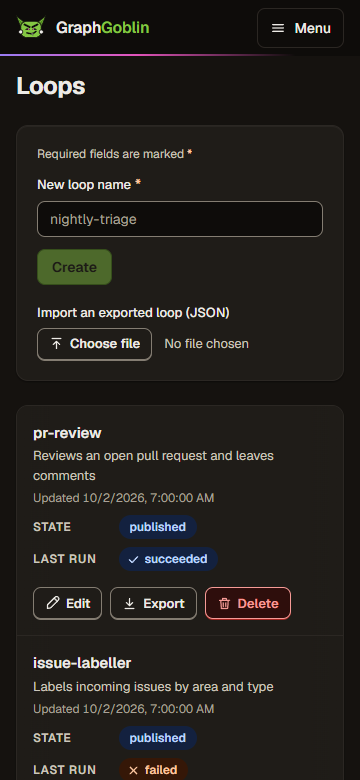
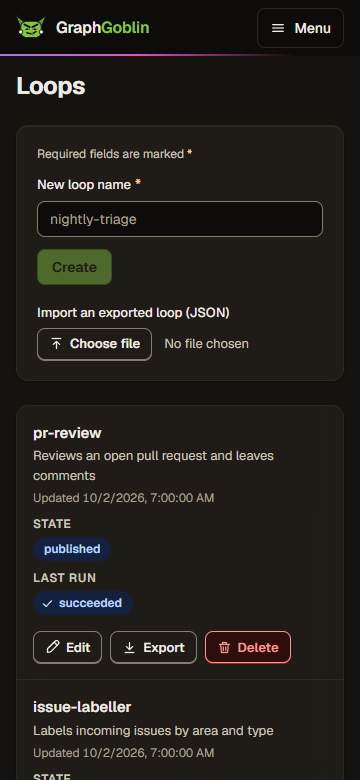
fix(web): focus after undo or redo follows surviving rows and never opens a collapsed one; stacked values take the full row width below 640 px
When the focused row no longer exists after a history step, focus moves to a shown
header, the collection's Add button, or its fieldset instead of reusing the stale index
path and revealing another row; a row's header toggle and Remove button follow the row's
identity like its fields. The shared stacked-table styles give values the full width below
640 px, so a loop's long state badge reads whole at 360 px. Regression tests cover both
collapsed-row scenarios, shifted headers, an emptied collection, and the badge in both
themes; docs/09 and the sweep's README and two Loops screenshots are updated.

Changed region(s): [[0.0917, 0.6462, 0.825, 1.0]]

diff --git a/apps/web/src/editor/NodeEditorDialog.test.tsx b/apps/web/src/editor/NodeEditorDialog.test.tsx
@@ -147,4 +147,122 @@ describe('NodeEditorDialog disclosures across undo and redo', () => {
     expect(item(1)).toHaveAttribute('aria-expanded', 'false');
     expect(item(2)).toHaveAttribute('aria-expanded', 'true');
   });
+
+  it('redoing a removal from the removed row keeps its neighbour collapsed', async () => {
+    const user = userEvent.setup();
+    const dialog = await openDialog(
+      {
+        id: 'mut',
+        kind: 'mutate',
+        label: 'Mut',
+        config: {
+          operations: [
+            { op: 'delete', path: '/vars/a' },
+            { op: 'delete', path: '/vars/b' },
+          ],
+        },
+      },
+      'Edit mutate mut',
+    );
+    const item = (n: number) =>
+      within(dialog).getByRole('button', { name: new RegExp(`^Operations ${n}\\b`) });
+    await user.click(item(1));
+    await user.click(within(dialog).getByRole('button', { name: 'Remove operations 1' }));
+    await user.keyboard(UNDO);
+    const op = within(within(dialog).getByRole('group', { name: 'Operations 1' })).getByLabelText(
+      'Op',
+    );
+    act(() => op.focus());
+    await user.keyboard(REDO);
+    expect(item(1)).toHaveAttribute('aria-expanded', 'false');
+    expect(item(1)).toHaveFocus();
+    await user.keyboard(UNDO);
+    expect(item(1)).toHaveAttribute('aria-expanded', 'true');
+    expect(item(2)).toHaveAttribute('aria-expanded', 'false');
+    expect(item(2)).toHaveFocus();
+  });
+
+  it('undoing an add from its picker focuses a shown header without opening that row', async () => {
+    const user = userEvent.setup();
+    const dialog = await openDialog(
+      {
+        id: 'mut',
+        kind: 'mutate',
+        label: 'Mut',
+        config: { operations: [{ op: 'delete', path: '/vars/a' }] },
+      },
+      'Edit mutate mut',
+    );
+    const item = (n: number) =>
+      within(dialog).getByRole('button', { name: new RegExp(`^Operations ${n}\\b`) });
+    await user.click(within(dialog).getByRole('button', { name: 'Add operations' }));
+    const op = within(within(dialog).getByRole('group', { name: 'Operations 2' })).getByLabelText(
+      'Op',
+    );
+    await waitFor(() => expect(op).toHaveFocus());
+    await user.keyboard(UNDO);
+    expect(item(1)).toHaveAttribute('aria-expanded', 'false');
+    expect(item(1)).toHaveFocus();
+    await user.keyboard(REDO);
+    expect(item(1)).toHaveAttribute('aria-expanded', 'false');
+    expect(item(2)).toHaveAttribute('aria-expanded', 'true');
+  });
+
+  it.each(['toggle', 'remove'] as const)(
+    'follows the same row when undo and redo move its header %s',
+    async (headerControl) => {
+      const user = userEvent.setup();
+      const dialog = await openDialog(
+        {
+          id: 'mut',
+          kind: 'mutate',
+          label: 'Mut',
+          // Identical rows must still have separate disclosure and focus identities.
+          config: {
+            operations: Array.from({ length: 2 }, () => ({ op: 'delete', path: '/vars/a' })),
+          },
+        },
+        'Edit mutate mut',
+      );
+      const item = (n: number) =>
+        within(dialog).getByRole('button', { name: new RegExp(`^Operations ${n}\\b`) });
+      const header = (n: number) =>
+        headerControl === 'toggle'
+          ? item(n)
+          : within(dialog).getByRole('button', { name: `Remove operations ${n}` });
+      await user.click(within(dialog).getByRole('button', { name: 'Remove operations 1' }));
+      act(() => header(1).focus());
+      await user.keyboard(UNDO);
+      expect(header(2)).toHaveFocus();
+      expect(item(1)).toHaveAttribute('aria-expanded', 'false');
+      expect(item(2)).toHaveAttribute('aria-expanded', 'false');
+      await user.keyboard(REDO);
+      expect(header(1)).toHaveFocus();
+      expect(item(1)).toHaveAttribute('aria-expanded', 'false');
+    },
+  );
+
+  it('undoing the only added row returns focus to the collection Add button', async () => {
+    const user = userEvent.setup();
+    const dialog = await openDialog(
+      {
+        id: 'mut',
+        kind: 'mutate',
+        label: 'Mut',
+        config: { operations: [{ op: 'delete', path: '/vars/a' }] },
+      },
+      'Edit mutate mut',
+    );
+    const add = () => within(dialog).getByRole('button', { name: 'Add operations' });
+    await user.click(within(dialog).getByRole('button', { name: 'Remove operations 1' }));
+    await user.click(add());
+    await waitFor(() =>
+      expect(
+        within(within(dialog).getByRole('group', { name: 'Operations 1' })).getByLabelText('Op'),
+      ).toHaveFocus(),
+    );
+    await user.keyboard(UNDO);
+    expect(within(dialog).queryByRole('button', { name: /^Operations 1\b/ })).toBeNull();
+    expect(add()).toHaveFocus();
+  });
 });

diff --git a/apps/web/src/editor/useUndoShortcuts.ts b/apps/web/src/editor/useUndoShortcuts.ts
@@ -127,6 +127,27 @@ function findAgain(scope: Element, where: Whereabouts, byPlace: boolean): HTMLEl
   return same[Math.min(where.nth, same.length - 1)] ?? (byPlace ? all[where.place] : undefined);
 }
 
+/** A vanished row yields to a shown neighbour's header, else its collection's Add or fieldset. */
+function focusCollection(root: Element, path: string | undefined, index: number): boolean {
+  const collection = [...root.querySelectorAll<HTMLElement>('[data-field]')].find(
+    (el) => el.getAttribute('data-field') === path,
+  );
+  if (!collection || collection.closest('[hidden], [inert]')) return false;
+  const rows = [...collection.querySelectorAll('[data-row-id]')].filter(
+    (el) => el.parentElement?.closest('[data-field]') === collection,
+  );
+  const nearest = rows[Math.min(index, rows.length - 1)];
+  const toggle = nearest
+    ? focusableIn(nearest).find((el) => el.matches('button[aria-expanded]'))
+    : undefined;
+  const add = focusableIn(collection).find(
+    (el) =>
+      el.matches('button') && el.closest('[data-row-id]') === collection.closest('[data-row-id]'),
+  );
+  (toggle ?? add ?? collection).focus();
+  return document.activeElement !== document.body;
+}
+
 /**
  * Undo or redo one step, keeping keyboard focus where the user was. The forms that keep their own
  * state remount with the restored values, so a control focused inside one (a checkbox, a select,
@@ -144,6 +165,10 @@ export function runHistory(direction: HistoryDirection): void {
   const row = control?.closest('[data-row-id]');
   const rowId = row?.getAttribute('data-row-id');
   const rowPath = row?.getAttribute('data-row-path');
+  const collection = row?.parentElement?.closest('[data-field]');
+  const collectionPath = collection?.getAttribute('data-field');
+  const rowIndex = Number(row?.getAttribute('data-collection-row') ?? 0);
+  const inRow = row && control ? whereabouts(control, row) : undefined;
   const inField = field && control ? whereabouts(control, field) : undefined;
   // The innermost element around the control that survives the remount is only known afterwards.
   const around: { element: Element; where: Whereabouts }[] = [];
@@ -158,15 +183,33 @@ export function runHistory(direction: HistoryDirection): void {
   if (document.activeElement && document.activeElement !== document.body) return;
   const kept = around.find(({ element }) => element.isConnected);
   const anchor = kept?.element;
+  const restoredRow =
+    rowId === undefined || rowId === null
+      ? undefined
+      : [...(anchor?.querySelectorAll('[data-row-id]') ?? [])].find(
+          (el) => el.getAttribute('data-row-id') === rowId,
+        );
+  if (rowId !== undefined && rowId !== null && !restoredRow) {
+    // The old index can now name another row. Never reveal it or walk up that stale field path.
+    if (anchor && focusCollection(anchor, collectionPath ?? undefined, rowIndex)) return;
+    const fallback =
+      (anchor ? namingHeading(anchor) : null) ??
+      canvasFocusTarget(useEditorStore.getState().selectedNodeId);
+    fallback?.focus();
+    return;
+  }
+  if (restoredRow && inRow && field && !row?.contains(field)) {
+    // Header toggles and Remove belong to the collection field. Their names include a changing
+    // row number, so match within the surviving row before using their row-local position.
+    const target = findAgain(restoredRow, inRow, true);
+    if (target) {
+      target.focus();
+      return;
+    }
+  }
   if (anchor && path !== undefined && inField) {
     // A collection removal changes indices. Follow the surviving row's identity, so restoring
     // focus never opens a different row that the user deliberately left collapsed.
-    const restoredRow =
-      rowId === undefined || rowId === null
-        ? undefined
-        : [...anchor.querySelectorAll('[data-row-id]')].find(
-            (el) => el.getAttribute('data-row-id') === rowId,
-          );
     const restoredPath =
       restoredRow && rowPath && (path === rowPath || path.startsWith(`${rowPath}.`))
         ? restoredRow.getAttribute('data-row-path') + path.slice(rowPath.length)

diff --git a/apps/web/e2e/undo.spec.ts b/apps/web/e2e/undo.spec.ts
@@ -337,6 +337,72 @@ test('model then effort are two undo steps, and undo and redo keep Advanced open
   await expect(dialog.getByRole('spinbutton', { name: 'Timeout seconds' })).toBeVisible();
 });
 
+test('row focus follows history without opening collapsed neighbours', async ({
+  page,
+  request,
+}) => {
+  const loop = approvalLoop('qa undo collapsed rows');
+  const loopId = await createLoop(request, {
+    ...loop,
+    nodes: [
+      ...loop.nodes,
+      {
+        id: 'mut',
+        kind: 'mutate',
+        label: 'Mut',
+        config: {
+          operations: [
+            { op: 'delete', path: '/vars/a' },
+            { op: 'delete', path: '/vars/b' },
+          ],
+        },
+        ui: { x: 260, y: 260 },
+      },
+    ],
+  });
+  await page.goto(`/app/loops/${loopId}/edit`);
+  const dialog = await openNode(page, 'mut');
+  const toggle = (n: number) =>
+    dialog.getByRole('button', { name: new RegExp(`^Operations ${n}\\b`) });
+  const remove = (n: number) => dialog.getByRole('button', { name: `Remove operations ${n}` });
+  const op = (n: number) => dialog.getByRole('group', { name: `Operations ${n}` }).getByLabel('Op');
+  await toggle(1).click();
+  await remove(1).click();
+  await page.keyboard.press('Control+z');
+  await op(1).focus();
+  await page.keyboard.press('Control+Shift+z');
+  await expect(toggle(1)).toHaveAttribute('aria-expanded', 'false');
+  await expect(toggle(1)).toBeFocused();
+  await page.keyboard.press('Control+z');
+  await expect(toggle(1)).toHaveAttribute('aria-expanded', 'true');
+  await expect(toggle(2)).toHaveAttribute('aria-expanded', 'false');
+  await expect(toggle(2)).toBeFocused();
+
+  // Both controls are outside the row's data-field, and their names change with its index.
+  for (const header of [toggle, remove]) {
+    await remove(1).click();
+    await header(1).focus();
+    await page.keyboard.press('Control+z');
+    await expect(header(2)).toBeFocused();
+    await expect(toggle(2)).toHaveAttribute('aria-expanded', 'false');
+    await page.keyboard.press('Control+Shift+z');
+    await expect(header(1)).toBeFocused();
+    await expect(toggle(1)).toHaveAttribute('aria-expanded', 'false');
+    await page.keyboard.press('Control+z');
+  }
+
+  // With only the collapsed neighbour left, undo an add while focused in its new picker.
+  await remove(1).click();
+  await dialog.getByRole('button', { name: 'Add operations' }).click();
+  await expect(op(2)).toBeFocused();
+  await page.keyboard.press('Control+z');
+  await expect(toggle(1)).toHaveAttribute('aria-expanded', 'false');
+  await expect(toggle(1)).toBeFocused();
+  await page.keyboard.press('Control+Shift+z');
+  await expect(toggle(1)).toHaveAttribute('aria-expanded', 'false');
+  await expect(toggle(2)).toHaveAttribute('aria-expanded', 'true');
+});
+
 test('the Undo and Redo buttons are 32 px for a mouse and 44 px for touch', async ({
   page,
   request,

diff --git a/apps/web/e2e/responsive.spec.ts b/apps/web/e2e/responsive.spec.ts
@@ -184,6 +184,57 @@ for (const theme of ['dark', 'light'] as const) {
       return { loopId, runId };
     }
 
+    test('the full published-with-changes state fits a stacked Loops row at 360 px', async ({
+      page,
+      request,
+    }) => {
+      const definition = approvalLoop(`responsive changed loop ${theme}`);
+      const loopId = await publishLoop(request, definition);
+      const edited = await request.put(`/loops/${loopId}/draft`, {
+        data: { definition: { ...definition, description: 'Unpublished edit' } },
+      });
+      expect(edited.status()).toBe(200);
+      await page.setViewportSize(WIDTHS[0]!);
+      await page.goto('/app/loops');
+      await expect(page.locator('html')).toHaveAttribute('data-theme', theme);
+      const row = page.getByRole('row').filter({
+        has: page.getByRole('link', { name: definition.name, exact: true }),
+      });
+      const state = row.getByText('published, unpublished changes', { exact: true });
+      await expect(state).toBeVisible();
+      await state.scrollIntoViewIfNeeded();
+      await page.evaluate(() => document.fonts.ready);
+      // Visibility and the DOM text alone miss ellipsis clipping. Measure the rendered text
+      // against its own box, the badge, and every clipping ancestor up to the viewport.
+      const clipped = await state.evaluate((el) => {
+        if (el.scrollWidth > el.clientWidth) return true;
+        const range = document.createRange();
+        range.selectNodeContents(el);
+        for (const rect of range.getClientRects()) {
+          if (rect.left < 0 || rect.right > innerWidth) return true;
+          for (let parent: Element | null = el; parent; parent = parent.parentElement) {
+            const css = getComputedStyle(parent);
+            const box = parent.getBoundingClientRect();
+            const left = box.left + parent.clientLeft;
+            const top = box.top + parent.clientTop;
+            if (
+              /^(auto|scroll|hidden|clip)$/.test(css.overflowX) &&
+              (rect.left < left - 1 || rect.right > left + parent.clientWidth + 1)
+            )
+              return true;
+            if (
+              /^(auto|scroll|hidden|clip)$/.test(css.overflowY) &&
+              (rect.top < top - 1 || rect.bottom > top + parent.clientHeight + 1)
+            )
+              return true;
+          }
+        }
+        return false;
+      });
+      expect(clipped, `${theme}: full publish state is readable`).toBe(false);
+      await geometry(page, 'Loops with unpublished changes');
+    });
+
     test('screens and transient states fit at 360, 768, 1024, and 1440 px', async ({
       page,
       request,

diff --git a/apps/web/src/styles/layout.css b/apps/web/src/styles/layout.css
@@ -57,6 +57,10 @@
       align-items: center;
       justify-items: start;
       column-gap: var(--space-3);
+      @media (width < 40rem) {
+        grid-template-columns: minmax(0, 1fr);
+        row-gap: var(--space-1);
+      }
       @media (pointer: coarse) {
         min-height: 2.75rem;
       }
@@ -110,6 +114,10 @@
       align-items: center;
       justify-items: start;
       column-gap: var(--space-3);
+      @media (width < 40rem) {
+        grid-template-columns: minmax(0, 1fr);
+        row-gap: var(--space-1);
+      }
       @media (pointer: coarse) {
         min-height: 2.75rem;
       }

diff --git a/docs/09-frontend-and-pwa.md b/docs/09-frontend-and-pwa.md
@@ -158,12 +158,12 @@ Every screen works from 360 px to wide desktop without sideways page scrolling o
 
 - **Breakpoints.** Tailwind's defaults, and only these: `sm` 640 px, `md` 768 px, `lg` 1024 px, `xl` 1280 px, written as `max-sm:` and friends for "below". What changes where:
 
-  | Below          | What changes                                                                                                                                                                                                                                             |
-  | -------------- | -------------------------------------------------------------------------------------------------------------------------------------------------------------------------------------------------------------------------------------------------------- |
-  | 640 px (`sm`)  | The header's links fold into **Menu**; forms become one column (`FieldRow`); page padding and the page title shrink (tokens); the run's patch diff stacks before over after; the node dialog's Connect form stacks                                       |
-  | 768 px (`md`)  | Settings tables (model catalog, classifier models) stack their rows; the node dialog becomes a bottom sheet; the editor's expanded palette floats over the canvas                                                                                        |
-  | 1024 px (`lg`) | Loops, Runs, and Events stack their rows; the editor's loop settings float over the canvas; the run inspector puts the thread under the timeline; the classifier table folds Provider and Capabilities into the Model cell; the palette starts collapsed |
-  | 1280 px (`xl`) | The loop settings panel starts collapsed                                                                                                                                                                                                                 |
+  | Below          | What changes                                                                                                                                                                                                                                                               |
+  | -------------- | -------------------------------------------------------------------------------------------------------------------------------------------------------------------------------------------------------------------------------------------------------------------------- |
+  | 640 px (`sm`)  | The header's links fold into **Menu**; forms become one column (`FieldRow`); stacked table labels sit above their full-width values; page padding and the page title shrink (tokens); the run's patch diff stacks before over after; the node dialog's Connect form stacks |
+  | 768 px (`md`)  | Settings tables (model catalog, classifier models) stack their rows; the node dialog becomes a bottom sheet; the editor's expanded palette floats over the canvas                                                                                                          |
+  | 1024 px (`lg`) | Loops, Runs, and Events stack their rows; the editor's loop settings float over the canvas; the run inspector puts the thread under the timeline; the classifier table folds Provider and Capabilities into the Model cell; the palette starts collapsed                   |
+  | 1280 px (`xl`) | The loop settings panel starts collapsed                                                                                                                                                                                                                                   |
 
 - **Page.** `Page` is the content column (page padding from `--space-page`, 1240 px wide at most, `wide` for the run inspector); `PageHeader` wraps its actions under the title when they do not fit.
 - **Tables** (`components/ui/table.tsx`, `styles/layout.css`). `Table stack="md"` or `stack="lg"` turns each row into a block below that breakpoint: each cell is a line that starts with its column's name, given as `Td label` and drawn as decoration (CSS `content` with empty alternative text), while the header row stays in the document, visually hidden, so assistive technology keeps the table and its headers. A cell without a label (the row's name, its actions) takes the whole line, long words break instead of widening the page, and on a coarse pointer each line is 44 px tall, so links in neighbouring lines never overlap. Loops, Runs, and Events stack below `lg`, the model catalog and classifier models below `md`. A flush `Card`'s body still scrolls sideways when a table is wider than it (a 120-character name, say), with a shadow on each edge that has more (`scroll-shadow-x`). On Loops the update time sits under the loop's name rather than in a column of its own, so the name keeps its room at 1024 px.

diff --git a/docs/qa/2026-10-05-issue-41-sweep/README.md b/docs/qa/2026-10-05-issue-41-sweep/README.md
@@ -2,6 +2,8 @@
 
 Date: 2026-10-05. Regenerated on merged HEAD `d5f9ed2` with the uncommitted second-review fixes. The real app, built with `pnpm.cmd build` and served by `apps/web/e2e/server.ts` (the in-memory API with the fake harness), photographed in Edge with reduced motion so pulses hold still. Every screen and state at 360 by 780, 768 by 1024, 1024 by 768, and 1440 by 900 px in both themes; Settings as a full-page shot.
 
+The two `loops-360.png` shots were refreshed on `125985f` with the uncommitted pre-release follow-ups. Below 640 px, the shared stacked-table cells put their labels above full-width values so the entire "published, unpublished changes" badge fits. Edge `e2e/responsive.spec.ts` checks the text and its clipping ancestors at 360 px in both themes. Other screenshots retain the capture described above.
+
 - `dark/` and `light/`: the merged app after the sweep and review fixes, including the Settings Font control (#40) and shared edge routing (#18); Dark (the default) and Light chosen the way Settings → Appearance does (the stored theme, shown by the boot script before first paint).
 - `before-light/`: Loops, the editor, the run inspector, and Settings at 768 and 1440 px in Light before the tuning (a build of `cb46771`, the feature branch before this work). The seed then had no API key yet, so its Settings shows none; that is data, not design.
 
